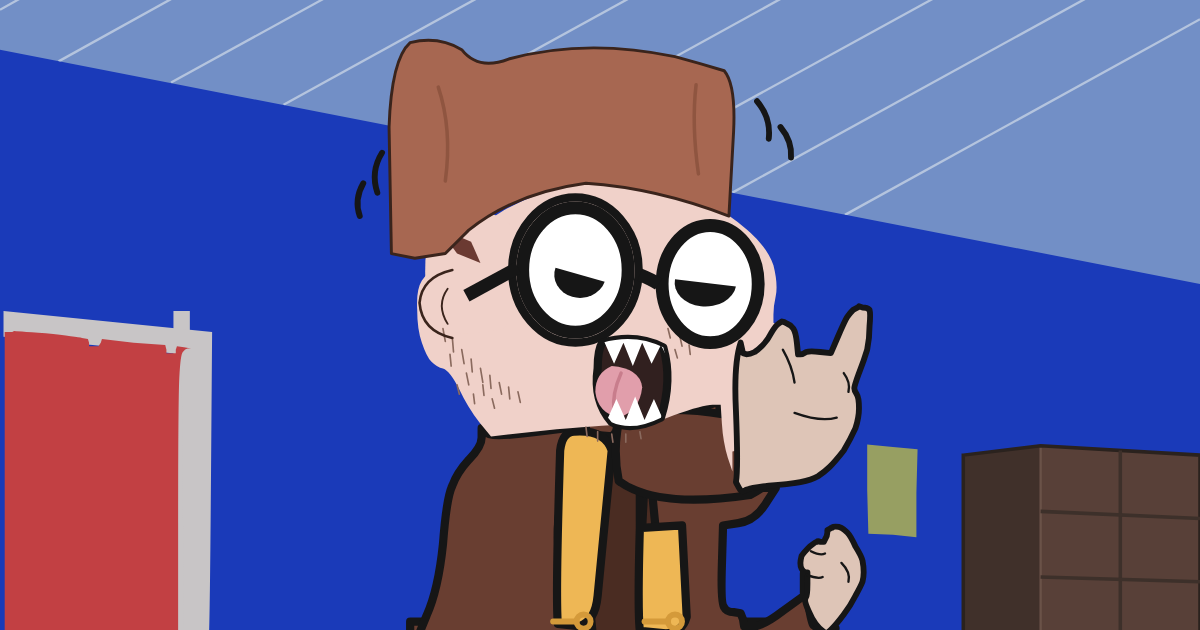
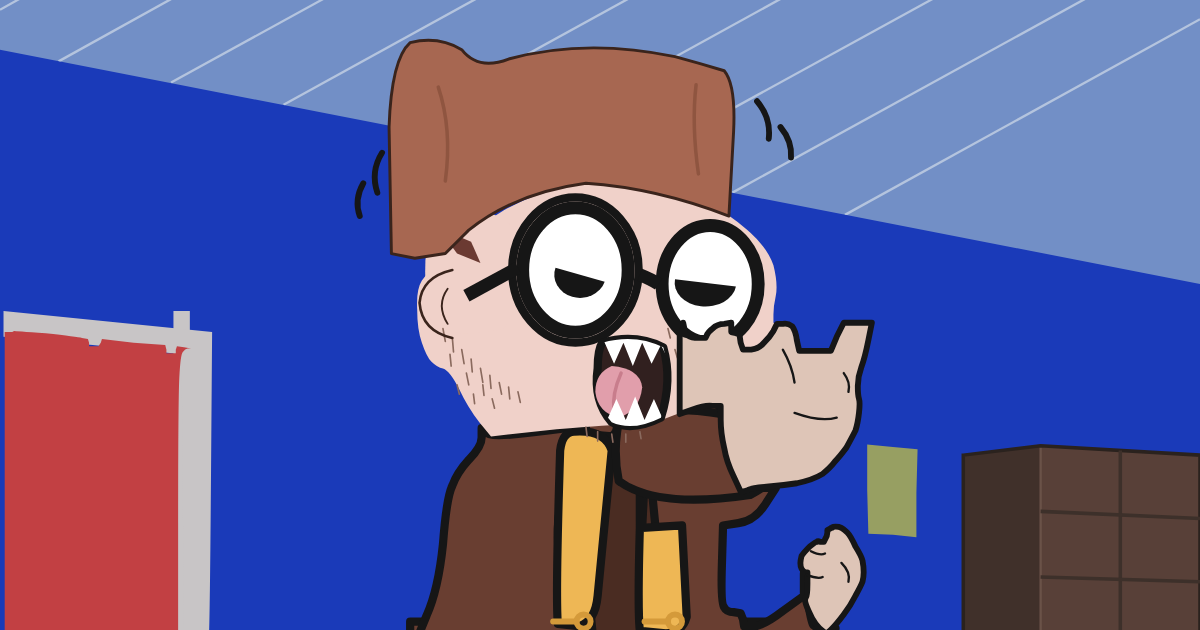
ghost: retrace the rock-on hand — box clipped the pinky, RDP tolerance rounded away the finger notches into a mitten

Changed region(s): [[0.555, 0.5127, 0.7092, 0.754], [0.6783, 0.4825, 0.74, 0.5429], [0.7092, 0.6032, 0.74, 0.6333]]

diff --git a/tipsy/ghost/index.html b/tipsy/ghost/index.html
@@ -4,18 +4,18 @@
 <meta charset="utf-8">
 <meta name="viewport" content="width=device-width,initial-scale=1">
 <title>Tipsy Turtles_Chapter 2 Snippet — on chain</title>
-<meta name="description" content="Tipsy Turtles_Chapter 2 Snippet redrawn as vector art and stored entirely inside its minting transaction — 12,594 bytes, no IPFS, no gateway.">
+<meta name="description" content="Tipsy Turtles_Chapter 2 Snippet redrawn as vector art and stored entirely inside its minting transaction — 12,701 bytes, no IPFS, no gateway.">
 <link rel="canonical" href="https://beacnpool.github.io/ABCDE/tipsy/ghost/">
 <meta property="og:type" content="website">
 <meta property="og:url" content="https://beacnpool.github.io/ABCDE/tipsy/ghost/">
 <meta property="og:title" content="Tipsy Turtles_Chapter 2 Snippet — on chain">
-<meta property="og:description" content="Tipsy Turtles_Chapter 2 Snippet redrawn as vector art and stored entirely inside its minting transaction — 12,594 bytes, no IPFS, no gateway.">
+<meta property="og:description" content="Tipsy Turtles_Chapter 2 Snippet redrawn as vector art and stored entirely inside its minting transaction — 12,701 bytes, no IPFS, no gateway.">
 <meta property="og:image" content="https://beacnpool.github.io/ABCDE/tipsy/ghost/og.png">
 <meta property="og:image:width" content="1200">
 <meta property="og:image:height" content="630">
 <meta name="twitter:card" content="summary_large_image">
 <meta name="twitter:title" content="Tipsy Turtles_Chapter 2 Snippet — on chain">
-<meta name="twitter:description" content="Tipsy Turtles_Chapter 2 Snippet redrawn as vector art and stored entirely inside its minting transaction — 12,594 bytes, no IPFS, no gateway.">
+<meta name="twitter:description" content="Tipsy Turtles_Chapter 2 Snippet redrawn as vector art and stored entirely inside its minting transaction — 12,701 bytes, no IPFS, no gateway.">
 <meta name="twitter:image" content="https://beacnpool.github.io/ABCDE/tipsy/ghost/og.png">
 <style>
 *{box-sizing:border-box}
@@ -100,7 +100,7 @@ footer{margin-top:44px;padding-top:16px;border-top:1px solid var(--line);
      <code>ipfs://QmZM9p5Kgqtj…</code> — and a pointer is only as permanent as
      whoever keeps paying to pin it.</p>
   <p class="sub">On the right is the same frame redrawn as vector art and written
-     <b>into the minting transaction itself</b>: 8,581 bytes of SVG, no gateway,
+     <b>into the minting transaction itself</b>: 8,661 bytes of SVG, no gateway,
      no pin, no bill.</p>
 
   <div class="vs">
@@ -123,9 +123,9 @@ footer{margin-top:44px;padding-top:16px;border-top:1px solid var(--line);
         <span class="tag chain">stored on Cardano</span><br>
         <b>Ours.</b> Decoded from the same base64 string that rides in the transaction
         below. Nothing was fetched to draw it.
-        <div class="bar"><i style="width:76.9%"></i></div>
-        <span style="color:var(--dim)">12,594 of 16,384 bytes
-        &middot; 77% of one transaction</span>
+        <div class="bar"><i style="width:77.5%"></i></div>
+        <span style="color:var(--dim)">12,701 of 16,384 bytes
+        &middot; 78% of one transaction</span>
       </div>
     </div>
   </div>
@@ -157,7 +157,7 @@ footer{margin-top:44px;padding-top:16px;border-top:1px solid var(--line);
     <tr><td>closes</td><td>24 Aug 2026 13:04 UTC</td></tr>
     <tr><td>asset name</td><td><code>GHOST&lt;8 hex&gt;</code> — derived from the
         UTxO you spend, so every mint is a distinct token</td></tr>
-    <tr><td>image</td><td><code>8,581 bytes</code> of SVG, base64 in CIP-25 metadata</td></tr>
+    <tr><td>image</td><td><code>8,661 bytes</code> of SVG, base64 in CIP-25 metadata</td></tr>
     <tr><td>you pay</td><td><b>~0.71 ADA</b> network fee, plus
         <b>~1.18 ADA</b> min-UTxO that stays in your wallet</td></tr>
     <tr><td>creator takes</td><td><b>nothing</b> — there is no payment address in this
@@ -190,7 +190,7 @@ footer{margin-top:44px;padding-top:16px;border-top:1px solid var(--line);
     transaction · <a href="../">all three frames</a></footer>
 
 </div>
-<script id="art-src" type="image/svg+xml"><svg xmlns="http://www.w3.org/2000/svg" viewBox="0 0 1024 576"><defs><clipPath id="cc"><path d="M0 0h1024v262L0 62z"/></clipPath><path id="fp" d="M506 174Q507 173 526 174Q544 174 568 180Q592 187 606 194Q620 201 638 216Q655 231 660 246Q664 262 662 272Q660 281 660 288L660 295L662 296L664 296L664 346L663 396L644 400L625 405L625 414L625 422L621 410Q617 397 616 381L615 365L608 365Q600 365 575 374Q550 384 540 382Q531 381 475 386L419 392L409 380Q399 367 392 352Q384 336 378 334Q373 333 368 328Q364 324 360 312Q356 301 356 284Q355 267 360 259Q366 251 368 250L369 248L376 257L383 266L390 266Q397 266 402 262Q408 257 408 250L408 243L404 242L400 242L403 228Q406 213 430 199Q455 185 480 180Q506 174 506 174Z"/><path id="mp" d="M514 312Q542 304 566 316Q574 344 564 376Q540 388 522 380Q506 362 510 334Q510 318 514 312Z"/><clipPath id="mc"><use href="#mp"/></clipPath><clipPath id="ll"><ellipse cx="491" cy="250" rx="42" ry="50"/></clipPath><clipPath id="rl"><ellipse cx="606" cy="262" rx="38" ry="47"/></clipPath></defs><path d="M0 0h1024v576H0z" fill="#1a3ab9"/><path d="M0 566h181v10H0z" fill="#c8c5c6"/><path d="M0 566h152v10H0z" fill="#c24043"/><path d="M148 285h14v290h-14z" fill="#c8c5c6"/><path d="M0 0h1024v262L0 62z" fill="#728fc6"/><g fill="none" stroke="#b4c4de" stroke-width="2" clip-path="url(#cc)"><path d="M0 28 50 0"/><path d="M50 72 180 0"/><path d="M146 90 310 0"/><path d="M242 109 440 0"/><path d="M337 128 570 0"/><path d="M433 147 700 0"/><path d="M529 165 830 0"/><path d="M625 184 960 0"/><path d="M721 203 1024 36"/></g><path d="M3 286L3 285L92 294L181 303L180 432Q179 562 178 567L178 572L168 572L157 572L156 447L155 322L79 314L3 307L3 296Q3 286 3 286Z" fill="#c8c5c6"/><path d="M12 302Q12 302 39 304Q66 307 70 308L75 309L76 312L76 315L80 315L84 315L86 312L87 309L114 312L141 314L142 318L142 321L146 321L150 321L150 318L151 315L157 316L163 317L160 317Q158 317 156 320Q154 322 153 342Q152 362 152 466L152 571L78 571L4 571L4 437L4 303L8 303Q11 303 12 302Z" fill="#c24043"/><path d="M822 408 888 400 888 576 822 576Z" fill="#40302a"/><path d="M888 400 1024 408 1024 576 888 576Z" fill="#584038"/><path d="M888 400 888 576" fill="none" stroke="#6a5248" stroke-width="2"/><path d="M822 408 888 400 1024 408 1024 576 822 576Z" fill="none" stroke="#2a221e" stroke-width="3"/><g fill="none" stroke="#3d302a" stroke-width="3"><path d="M956 404 956 576"/><path d="M888 456 1024 462"/><path d="M888 512 1024 516"/></g><path d="M740 400L740 399L762 401L783 403L782 440L782 478L762 476L741 475L740 438Q740 400 740 400Z" fill="#979f62"/><g stroke="#161616" stroke-width="7" stroke-linejoin="round"><path d="M350 550h138v26H350z" fill="#693e31"/><path d="M486 550h32v26h-32z" fill="#eeb755"/><path d="M516 550h50v26h-50z" fill="#4a2c22"/><path d="M562 550h20v26h-20z" fill="#eeb755"/><path d="M578 550h28v26h-28z" fill="#4a2c22"/><path d="M602 550h28v26h-28z" fill="#eeb755"/><path d="M626 550h76v26h-76z" fill="#4a2c22"/><path d="M527 360L527 360L544 360L561 360L562 367L563 374L572 374Q582 374 598 368L614 362L614 380Q615 399 622 417L628 435L645 436L662 436L653 450Q644 464 630 466L617 468L616 502Q615 535 618 538Q620 542 626 542L632 543L634 548L635 554L643 554Q651 554 668 541L686 528L686 518L686 509L689 530Q692 550 694 553Q697 556 705 556L713 556L709 562L705 567L530 567L355 567L364 545Q374 523 378 484Q381 444 386 434Q390 423 400 412Q411 401 411 393L411 385L414 388Q416 391 426 391Q437 391 468 387L498 383L488 414Q477 444 476 471Q476 498 480 510L484 522L498 522L511 521L512 516L512 511L517 510L522 509L522 501L522 493L515 492L508 491L508 480Q508 468 513 446Q518 424 526 408Q534 392 534 384L534 376L522 373L510 370L516 370L521 370L524 366Q527 361 527 360Z" fill="#693e31"/><path d="M500 378Q513 374 526 380Q528 388 522 392L500 390Z" fill="#693e31"/><path d="M508 394L552 394 560 476 550 562 506 564 498 478Z" fill="#4a2c22"/><path d="M490 388Q516 386 522 404L510 528Q508 550 494 554L476 552Q474 528 478 404Q480 388 490 388Z" fill="#eeb755"/><path d="M546 392L574 394 572 432 550 430 548 470L582 468 586 546Q582 560 568 560L546 558Q544 540 546 470Z" fill="#eeb755"/><g fill="none" stroke="#d49a3a" stroke-width="5" stroke-linecap="round"><path d="M472 550h20"/><circle cx="498" cy="550" r="6"/></g><g fill="none" stroke="#d49a3a" stroke-width="5" stroke-linecap="round"><path d="M550 550h20"/><circle cx="576" cy="550" r="6"/></g><path d="M530 372Q620 362 668 392Q676 424 640 442Q560 454 528 430Q522 400 530 372Z" fill="#693e31"/><use href="#fp" fill="#f0d1c9" stroke="none"/><path d="M370 200Q358 240 366 290Q380 312 430 300Q452 268 444 220Q420 190 370 200Z" fill="#f0d1c9" stroke="none"/><ellipse cx="491" cy="250" rx="54" ry="62" fill="#f0d1c9"/><path d="M374 214L402 226 410 244 390 236Z" fill="#6b3a32" stroke="none"/><path d="M378 300l2 11M386 308l1 12M394 318l2 12M402 326l1 11M410 334l2 12M418 340l1 11M426 346l2 10M434 350l1 10M442 354l2 9M384 322l1 10M398 338l2 10M412 348l1 9M390 348l2 8M404 356l1 8M420 360l2 8M500 384l1 8M510 388l0 8M522 390l1 7M534 390l0 7M546 388l1 6M570 300l2 8M580 306l2 9M588 314l1 8M576 318l2 7" fill="none" stroke="#8a6a5e" stroke-width="1.4" stroke-linecap="round"/><path d="M514 312Q542 304 566 316Q574 344 564 376Q540 388 522 380Q506 362 510 334Q510 318 514 312Z" fill="#31201f"/><path d="M522 332Q546 334 548 350Q546 370 528 376Q510 372 508 354Q508 338 522 332Z" fill="#e19eab" stroke="none"/><path d="M530 338Q522 356 524 370" fill="none" stroke="#c87d8c" stroke-width="3" stroke-linecap="round"/><g clip-path="url(#mc)"><path d="M516 312 524 330 532 312 540 332 548 312 556 330 564 314 570 326 572 308 514 306Z" fill="#fff" stroke="none"/><path d="M518 378 526 360 534 378 542 358 550 378 558 360 566 378 570 368 570 384 516 384Z" fill="#fff" stroke="none"/></g></g><path d="M334 236L332 128Q334 70 350 56Q374 50 394 62Q408 80 434 70Q500 52 576 68Q598 74 618 80Q628 92 626 132L622 204Q560 180 500 176Q440 184 400 216L380 236 354 240 334 236Z" fill="#a76751" stroke="#3a241c" stroke-width="2.5" stroke-linejoin="round"/><g fill="none" stroke="#8f5540" stroke-width="3" stroke-linecap="round"><path d="M374 94q12 36 6 80"/><path d="M594 92q-4 34 2 76"/></g><path d="M386 250Q360 256 358 278Q360 302 386 308" fill="none" stroke="#3a241c" stroke-width="2.2" stroke-linecap="round"/><g fill="none" stroke="#3a241c" stroke-width="1.6" stroke-linecap="round"><path d="M382 266Q372 280 382 296"/></g><ellipse cx="491" cy="250" rx="44" ry="52" fill="#fff"/><ellipse cx="606" cy="262" rx="40" ry="49" fill="#fff"/><g clip-path="url(#ll)" fill="#161616" stroke="none"><path d="M474 248A20 18 0 0 0 516 260Z"/></g><g clip-path="url(#rl)" fill="#161616" stroke="none"><path d="M576 258A26 20 0 0 0 628 264Z"/></g><g fill="none" stroke="#161616" stroke-width="11"><ellipse cx="491" cy="250" rx="45" ry="53"/><ellipse cx="606" cy="262" rx="41" ry="50"/><path d="M546 254q10 4 16 8"/><path d="M442 248 398 272"/></g><path d="M732 282L733 281L736 282Q740 282 742 284Q743 287 742 298Q742 308 740 318Q737 328 733 338Q729 349 729 351Q729 353 731 356Q733 359 733 368Q733 376 730 385Q726 394 720 404Q713 413 708 418Q704 422 698 426Q693 429 683 431Q673 433 656 434Q639 436 636 438L634 439L632 438Q631 437 628 431Q630 420 628 370Q626 330 632 312L634 321L637 322Q640 322 644 320Q647 318 651 314Q655 310 658 304Q661 299 663 297Q665 295 667 294Q669 294 672 296Q675 297 677 300Q679 303 680 312L681 322L683 322Q685 322 688 320Q691 319 700 320L709 321L715 307Q721 293 723 290Q725 287 728 284Q732 282 732 282Z" fill="#dec5b7" stroke="#161616" stroke-width="5" stroke-linejoin="round"/><g fill="none" stroke="#161616" stroke-width="2" stroke-linecap="round"><path d="M668 318q8 14 10 28"/><path d="M720 338q6 8 4 16"/><path d="M678 372q22 8 36 4"/></g><path d="M710 470Q710 469 713 469Q716 469 718 470Q720 471 723 474Q726 477 730 486Q735 494 736 498Q737 503 737 508Q737 512 736 516Q735 519 730 528Q726 536 720 544Q714 552 710 556Q706 560 705 560Q704 560 702 558Q699 556 696 552Q693 548 690 541Q687 534 687 532Q687 530 688 529Q689 528 689 518L689 508L687 508Q685 507 684 505Q683 503 683 500Q683 498 684 494Q686 491 691 486Q696 482 697 482Q698 481 700 482L703 482L704 480Q706 477 706 474L706 472L708 471Q709 470 710 470Z" fill="#dec5b7" stroke="#161616" stroke-width="5" stroke-linejoin="round"/><g fill="none" stroke="#161616" stroke-width="2" stroke-linecap="round"><path d="M692 490q8 4 12 2"/><path d="M688 510q10 4 14 2"/><path d="M718 500q8 8 6 16"/></g><g fill="none" stroke="#161616" stroke-width="5" stroke-linecap="round"><path d="M326 150q-10 16-4 34"/><path d="M310 176q-8 14-3 28"/><path d="M646 106q12 14 10 32"/><path d="M666 128q10 12 9 26"/></g></svg></script>
+<script id="art-src" type="image/svg+xml"><svg xmlns="http://www.w3.org/2000/svg" viewBox="0 0 1024 576"><defs><clipPath id="cc"><path d="M0 0h1024v262L0 62z"/></clipPath><path id="fp" d="M506 174Q507 173 526 174Q544 174 568 180Q592 187 606 194Q620 201 638 216Q655 231 660 246Q664 262 662 272Q660 281 660 288L660 295L662 296L664 296L664 346L663 396L644 400L625 405L625 414L625 422L621 410Q617 397 616 381L615 365L608 365Q600 365 575 374Q550 384 540 382Q531 381 475 386L419 392L409 380Q399 367 392 352Q384 336 378 334Q373 333 368 328Q364 324 360 312Q356 301 356 284Q355 267 360 259Q366 251 368 250L369 248L376 257L383 266L390 266Q397 266 402 262Q408 257 408 250L408 243L404 242L400 242L403 228Q406 213 430 199Q455 185 480 180Q506 174 506 174Z"/><path id="mp" d="M514 312Q542 304 566 316Q574 344 564 376Q540 388 522 380Q506 362 510 334Q510 318 514 312Z"/><clipPath id="mc"><use href="#mp"/></clipPath><clipPath id="ll"><ellipse cx="491" cy="250" rx="42" ry="50"/></clipPath><clipPath id="rl"><ellipse cx="606" cy="262" rx="38" ry="47"/></clipPath></defs><path d="M0 0h1024v576H0z" fill="#1a3ab9"/><path d="M0 566h181v10H0z" fill="#c8c5c6"/><path d="M0 566h152v10H0z" fill="#c24043"/><path d="M148 285h14v290h-14z" fill="#c8c5c6"/><path d="M0 0h1024v262L0 62z" fill="#728fc6"/><g fill="none" stroke="#b4c4de" stroke-width="2" clip-path="url(#cc)"><path d="M0 28 50 0"/><path d="M50 72 180 0"/><path d="M146 90 310 0"/><path d="M242 109 440 0"/><path d="M337 128 570 0"/><path d="M433 147 700 0"/><path d="M529 165 830 0"/><path d="M625 184 960 0"/><path d="M721 203 1024 36"/></g><path d="M3 286L3 285L92 294L181 303L180 432Q179 562 178 567L178 572L168 572L157 572L156 447L155 322L79 314L3 307L3 296Q3 286 3 286Z" fill="#c8c5c6"/><path d="M12 302Q12 302 39 304Q66 307 70 308L75 309L76 312L76 315L80 315L84 315L86 312L87 309L114 312L141 314L142 318L142 321L146 321L150 321L150 318L151 315L157 316L163 317L160 317Q158 317 156 320Q154 322 153 342Q152 362 152 466L152 571L78 571L4 571L4 437L4 303L8 303Q11 303 12 302Z" fill="#c24043"/><path d="M822 408 888 400 888 576 822 576Z" fill="#40302a"/><path d="M888 400 1024 408 1024 576 888 576Z" fill="#584038"/><path d="M888 400 888 576" fill="none" stroke="#6a5248" stroke-width="2"/><path d="M822 408 888 400 1024 408 1024 576 822 576Z" fill="none" stroke="#2a221e" stroke-width="3"/><g fill="none" stroke="#3d302a" stroke-width="3"><path d="M956 404 956 576"/><path d="M888 456 1024 462"/><path d="M888 512 1024 516"/></g><path d="M740 400L740 399L762 401L783 403L782 440L782 478L762 476L741 475L740 438Q740 400 740 400Z" fill="#979f62"/><g stroke="#161616" stroke-width="7" stroke-linejoin="round"><path d="M350 550h138v26H350z" fill="#693e31"/><path d="M486 550h32v26h-32z" fill="#eeb755"/><path d="M516 550h50v26h-50z" fill="#4a2c22"/><path d="M562 550h20v26h-20z" fill="#eeb755"/><path d="M578 550h28v26h-28z" fill="#4a2c22"/><path d="M602 550h28v26h-28z" fill="#eeb755"/><path d="M626 550h76v26h-76z" fill="#4a2c22"/><path d="M527 360L527 360L544 360L561 360L562 367L563 374L572 374Q582 374 598 368L614 362L614 380Q615 399 622 417L628 435L645 436L662 436L653 450Q644 464 630 466L617 468L616 502Q615 535 618 538Q620 542 626 542L632 543L634 548L635 554L643 554Q651 554 668 541L686 528L686 518L686 509L689 530Q692 550 694 553Q697 556 705 556L713 556L709 562L705 567L530 567L355 567L364 545Q374 523 378 484Q381 444 386 434Q390 423 400 412Q411 401 411 393L411 385L414 388Q416 391 426 391Q437 391 468 387L498 383L488 414Q477 444 476 471Q476 498 480 510L484 522L498 522L511 521L512 516L512 511L517 510L522 509L522 501L522 493L515 492L508 491L508 480Q508 468 513 446Q518 424 526 408Q534 392 534 384L534 376L522 373L510 370L516 370L521 370L524 366Q527 361 527 360Z" fill="#693e31"/><path d="M500 378Q513 374 526 380Q528 388 522 392L500 390Z" fill="#693e31"/><path d="M508 394L552 394 560 476 550 562 506 564 498 478Z" fill="#4a2c22"/><path d="M490 388Q516 386 522 404L510 528Q508 550 494 554L476 552Q474 528 478 404Q480 388 490 388Z" fill="#eeb755"/><path d="M546 392L574 394 572 432 550 430 548 470L582 468 586 546Q582 560 568 560L546 558Q544 540 546 470Z" fill="#eeb755"/><g fill="none" stroke="#d49a3a" stroke-width="5" stroke-linecap="round"><path d="M472 550h20"/><circle cx="498" cy="550" r="6"/></g><g fill="none" stroke="#d49a3a" stroke-width="5" stroke-linecap="round"><path d="M550 550h20"/><circle cx="576" cy="550" r="6"/></g><path d="M530 372Q620 362 668 392Q676 424 640 442Q560 454 528 430Q522 400 530 372Z" fill="#693e31"/><use href="#fp" fill="#f0d1c9" stroke="none"/><path d="M370 200Q358 240 366 290Q380 312 430 300Q452 268 444 220Q420 190 370 200Z" fill="#f0d1c9" stroke="none"/><ellipse cx="491" cy="250" rx="54" ry="62" fill="#f0d1c9"/><path d="M374 214L402 226 410 244 390 236Z" fill="#6b3a32" stroke="none"/><path d="M378 300l2 11M386 308l1 12M394 318l2 12M402 326l1 11M410 334l2 12M418 340l1 11M426 346l2 10M434 350l1 10M442 354l2 9M384 322l1 10M398 338l2 10M412 348l1 9M390 348l2 8M404 356l1 8M420 360l2 8M500 384l1 8M510 388l0 8M522 390l1 7M534 390l0 7M546 388l1 6M570 300l2 8M580 306l2 9M588 314l1 8M576 318l2 7" fill="none" stroke="#8a6a5e" stroke-width="1.4" stroke-linecap="round"/><path d="M514 312Q542 304 566 316Q574 344 564 376Q540 388 522 380Q506 362 510 334Q510 318 514 312Z" fill="#31201f"/><path d="M522 332Q546 334 548 350Q546 370 528 376Q510 372 508 354Q508 338 522 332Z" fill="#e19eab" stroke="none"/><path d="M530 338Q522 356 524 370" fill="none" stroke="#c87d8c" stroke-width="3" stroke-linecap="round"/><g clip-path="url(#mc)"><path d="M516 312 524 330 532 312 540 332 548 312 556 330 564 314 570 326 572 308 514 306Z" fill="#fff" stroke="none"/><path d="M518 378 526 360 534 378 542 358 550 378 558 360 566 378 570 368 570 384 516 384Z" fill="#fff" stroke="none"/></g></g><path d="M334 236L332 128Q334 70 350 56Q374 50 394 62Q408 80 434 70Q500 52 576 68Q598 74 618 80Q628 92 626 132L622 204Q560 180 500 176Q440 184 400 216L380 236 354 240 334 236Z" fill="#a76751" stroke="#3a241c" stroke-width="2.5" stroke-linejoin="round"/><g fill="none" stroke="#8f5540" stroke-width="3" stroke-linecap="round"><path d="M374 94q12 36 6 80"/><path d="M594 92q-4 34 2 76"/></g><path d="M386 250Q360 256 358 278Q360 302 386 308" fill="none" stroke="#3a241c" stroke-width="2.2" stroke-linecap="round"/><g fill="none" stroke="#3a241c" stroke-width="1.6" stroke-linecap="round"><path d="M382 266Q372 280 382 296"/></g><ellipse cx="491" cy="250" rx="44" ry="52" fill="#fff"/><ellipse cx="606" cy="262" rx="40" ry="49" fill="#fff"/><g clip-path="url(#ll)" fill="#161616" stroke="none"><path d="M474 248A20 18 0 0 0 516 260Z"/></g><g clip-path="url(#rl)" fill="#161616" stroke="none"><path d="M576 258A26 20 0 0 0 628 264Z"/></g><g fill="none" stroke="#161616" stroke-width="11"><ellipse cx="491" cy="250" rx="45" ry="53"/><ellipse cx="606" cy="262" rx="41" ry="50"/><path d="M546 254q10 4 16 8"/><path d="M442 248 398 272"/></g><path d="M583 296L583 295L584 300L584 305L587 306Q590 308 596 308L602 308L603 306Q604 303 608 300Q612 296 618 296L624 295L624 299L624 303L628 304L631 305L632 312L634 318L641 318Q648 317 652 312Q657 307 660 302L663 296L668 296Q672 295 676 298Q679 302 680 310L682 319L696 319L709 319L714 307L720 295L732 295L744 295L741 310Q738 325 735 333Q732 341 732 349Q732 357 733 360Q734 363 733 372Q732 381 730 387Q727 393 722 402Q716 410 712 414Q709 418 702 424Q694 429 680 432Q667 434 654 435Q640 436 638 438Q635 439 634 439L632 439L626 426Q620 414 618 402Q615 389 615 378L615 366L608 366Q602 365 591 369L580 373L580 338L580 303L582 302L583 302L583 299Q583 296 583 296Z" fill="#dec5b7" stroke="#161616" stroke-width="5" stroke-linejoin="round"/><g fill="none" stroke="#161616" stroke-width="2" stroke-linecap="round"><path d="M668 318q8 14 10 28"/><path d="M720 338q6 8 4 16"/><path d="M678 372q22 8 36 4"/></g><path d="M710 470Q710 469 713 469Q716 469 718 470Q720 471 723 474Q726 477 730 486Q735 494 736 498Q737 503 737 508Q737 512 736 516Q735 519 730 528Q726 536 720 544Q714 552 710 556Q706 560 705 560Q704 560 702 558Q699 556 696 552Q693 548 690 541Q687 534 687 532Q687 530 688 529Q689 528 689 518L689 508L687 508Q685 507 684 505Q683 503 683 500Q683 498 684 494Q686 491 691 486Q696 482 697 482Q698 481 700 482L703 482L704 480Q706 477 706 474L706 472L708 471Q709 470 710 470Z" fill="#dec5b7" stroke="#161616" stroke-width="5" stroke-linejoin="round"/><g fill="none" stroke="#161616" stroke-width="2" stroke-linecap="round"><path d="M692 490q8 4 12 2"/><path d="M688 510q10 4 14 2"/><path d="M718 500q8 8 6 16"/></g><g fill="none" stroke="#161616" stroke-width="5" stroke-linecap="round"><path d="M326 150q-10 16-4 34"/><path d="M310 176q-8 14-3 28"/><path d="M646 106q12 14 10 32"/><path d="M666 128q10 12 9 26"/></g></svg></script>
 <script type="module">
 const ANCHOR_SLOT = 193727336, ANCHOR_UNIX = 1785293627;
 const DEADLINE_SLOT = 196010382, TICKER = 'GHOST';

diff --git a/tipsy/index.html b/tipsy/index.html
@@ -4,18 +4,18 @@
 <meta charset="utf-8">
 <meta name="viewport" content="width=device-width,initial-scale=1">
 <title>Tipsy Turtles, on chain</title>
-<meta name="description" content="Three Tipsy Turtles frames redrawn as vector art and stored entirely inside their minting transactions — 34.1 kB of chain against 4.1 MB of pinned PNG.">
+<meta name="description" content="Three Tipsy Turtles frames redrawn as vector art and stored entirely inside their minting transactions — 34.2 kB of chain against 4.1 MB of pinned PNG.">
 <link rel="canonical" href="https://beacnpool.github.io/ABCDE/tipsy/">
 <meta property="og:type" content="website">
 <meta property="og:url" content="https://beacnpool.github.io/ABCDE/tipsy/">
 <meta property="og:title" content="Tipsy Turtles, on chain">
-<meta property="og:description" content="Three Tipsy Turtles frames redrawn as vector art and stored entirely inside their minting transactions — 34.1 kB of chain against 4.1 MB of pinned PNG.">
+<meta property="og:description" content="Three Tipsy Turtles frames redrawn as vector art and stored entirely inside their minting transactions — 34.2 kB of chain against 4.1 MB of pinned PNG.">
 <meta property="og:image" content="https://beacnpool.github.io/ABCDE/tipsy/og.png">
 <meta property="og:image:width" content="1200">
 <meta property="og:image:height" content="630">
 <meta name="twitter:card" content="summary_large_image">
 <meta name="twitter:title" content="Tipsy Turtles, on chain">
-<meta name="twitter:description" content="Three Tipsy Turtles frames redrawn as vector art and stored entirely inside their minting transactions — 34.1 kB of chain against 4.1 MB of pinned PNG.">
+<meta name="twitter:description" content="Three Tipsy Turtles frames redrawn as vector art and stored entirely inside their minting transactions — 34.2 kB of chain against 4.1 MB of pinned PNG.">
 <meta name="twitter:image" content="https://beacnpool.github.io/ABCDE/tipsy/og.png">
 <style>
 *{box-sizing:border-box}
@@ -112,7 +112,7 @@ footer{margin-top:44px;padding-top:16px;border-top:1px solid var(--line);
      it. Each of these is the same frame redrawn as vector art and written
      <b>into the minting transaction itself</b>. No gateway, no pin, no bill.</p>
   <p class="sub">Together that is <b>4.1 MB</b> of pinned PNG on one side
-     and <b>34.1 kB</b> of transaction on the other. Open any of them: the
+     and <b>34.2 kB</b> of transaction on the other. Open any of them: the
      left panel is fetched live from your gateway, the right is decoded from the chain.</p>
 
   <div class="cards">
@@ -129,7 +129,7 @@ footer{margin-top:44px;padding-top:16px;border-top:1px solid var(--line);
               alt="Tipsy Turtles_Chapter 2 Snippet" loading="lazy"></span>
         <span class="meta"><b>Tipsy Turtles_Chapter 2 Snippet</b>The hardest of the three. The bird is constructed (middle finger up, knuckles on the fist), not traced; temple hair, clipped pupils, clean hat.
           <span class="ratio"><span>their PNG <b>1.49 MB</b></span>
-          <span>our transaction <b>12.6 kB</b></span></span>
+          <span>our transaction <b>12.7 kB</b></span></span>
         </span>
       </a>
       <a class="card" href="vote/">
